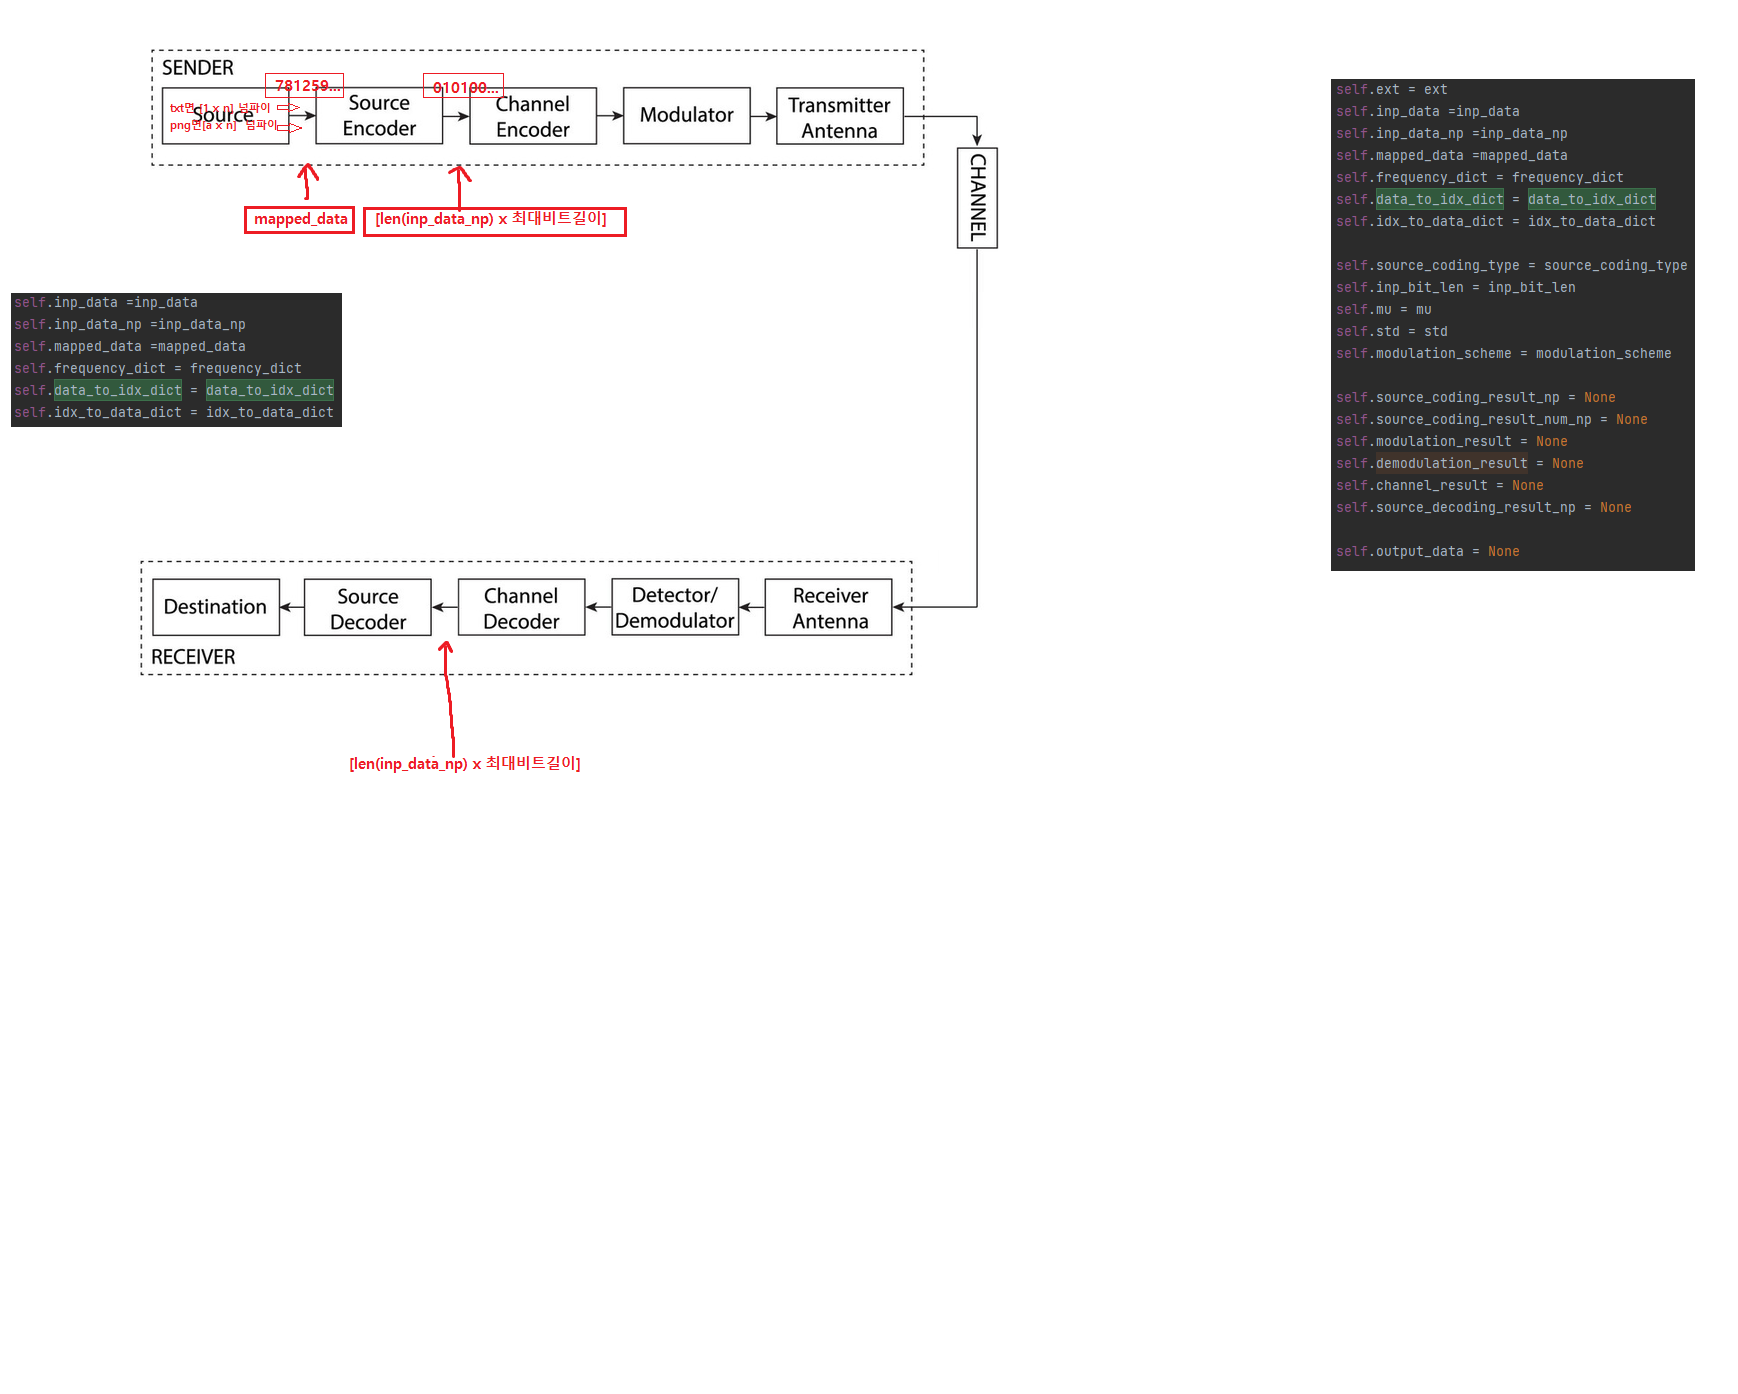
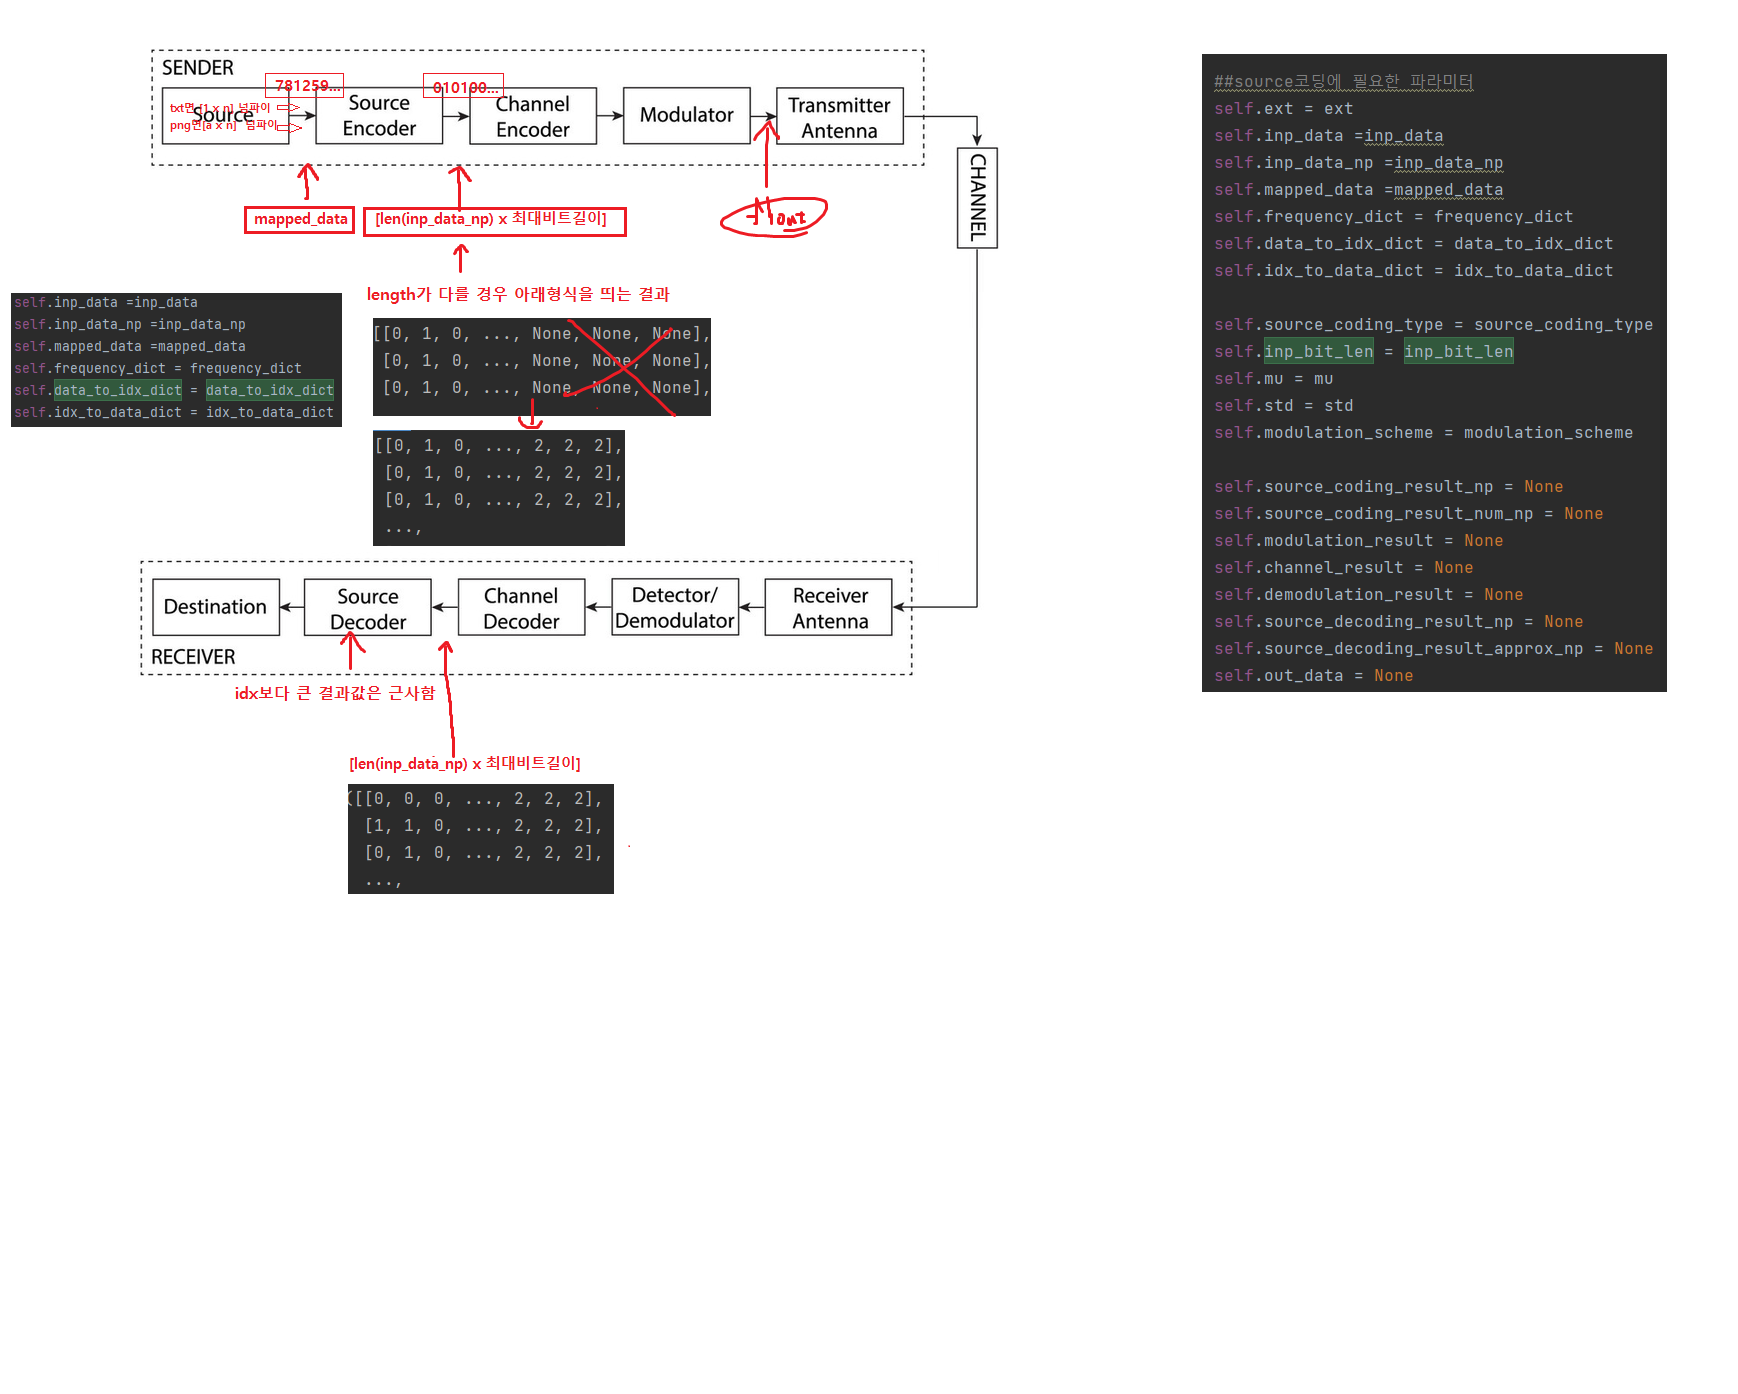
소ã
스코딩 허프만 수정중

diff --git a/communicationsystem.py b/communicationsystem.py
@@ -23,6 +23,8 @@ class communicationsystem:
         self.std = std
         self.modulation_scheme = modulation_scheme
 
+        self.data_to_code_dict = None
+        self.code_to_data_dict = None
         self.source_coding_result_np = None
         self.source_coding_result_num_np = None
         self.modulation_result = None
@@ -41,7 +43,7 @@ def source_encoder(inp_class):
     if inp_class.source_coding_type == "Huffman":
         h = huffman2.HuffmanCoding(columned_inp,inp_class.frequency_dict,inp_class.data_to_idx_dict)
         draw_graph = False
-        source_coding_result_np,source_coding_result_num_np = h.compress(draw_graph)
+        source_coding_result_np,source_coding_result_num_np = h.compress(inp_class,draw_graph)
 
     elif inp_class.source_coding_type == "NoCompression":
         print("%d length source coding"%inp_class.inp_bit_len)
@@ -63,17 +65,22 @@ def modulation(inp_class):
     데이터와 비트 길이, scheme을 입력에 따라 symbol을 반환
     '''
     if inp_class.modulation_scheme == "BPSK":
-        inp_class.modulation_result = np.where(inp_class.source_coding_result_np == 0, -1, 1)
+        inp_class.modulation_result = np.where(inp_class.source_coding_result_np == 2, np.nan, inp_class.source_coding_result_np)
+        inp_class.modulation_result = np.where(inp_class.modulation_result == 0, -1, inp_class.modulation_result)
+        #inp_class.modulation_result = np.where(inp_class.source_coding_result_np == 1, 1, inp_class.source_coding_result_np)
+        #inp_class.modulation_result = np.where(inp_class.source_coding_result_np == 1, 1, inp_class.modulation_result)
     else:
         raise Exception('모듈레이션 scheme 확인필요')
 def channel_awgn(inp_class):
-    '''
-    넘파이와 평균, 표준편차를 입력하면 awgn을 더해서 반환함
-    '''
     inp_class.channel_result = inp_class.modulation_result + np.random.normal(inp_class.mu, inp_class.std, inp_class.modulation_result.shape)
 def demodulation(inp_class):
     if inp_class.modulation_scheme == "BPSK":
-        inp_class.demodulation_result = (inp_class.channel_result>0).astype("uint8")
+        inp_class.demodulation_result = np.where(inp_class.channel_result < 0, 0,
+                                               inp_class.channel_result)
+        inp_class.demodulation_result = np.where(inp_class.demodulation_result  > 0, 1,
+                                               inp_class.demodulation_result)
+        inp_class.demodulation_result = np.where(np.isnan(inp_class.demodulation_result),2,inp_class.demodulation_result).astype('uint8')
+
     else:
         raise Exception('모듈레이션 scheme 확인필요')
 def channel_decoding(bit_stream):
@@ -84,7 +91,9 @@ def channel_decoding(bit_stream):
 def source_decoder(inp_class) :
 
     if inp_class.source_coding_type == "Huffman":
-        pass
+        inp_class.code_to_data_dict
+        inp_class.demodulation_result
+
     elif inp_class.source_coding_type == "NoCompression":
         ########### 소스디코딩에서 활용하자
         demodulation_result = np.copy(inp_class.demodulation_result)
@@ -111,9 +120,10 @@ def source_decoder(inp_class) :
 
         if inp_class.ext == ".txt":
             dec_res_inp_data_np = np.copy(inp_class.source_decoding_result_approx_np)  # inp_data_np
-            dec_res_inp_data = np.array([[inp_class.data_to_idx_dict[char] for char in dec_res_inp_data_np]], dtype=inp_class.inp_data.dtype).reshape(
-                inp_class.inp_data.shape)  # inp_data
 
+            u, inv = np.unique(dec_res_inp_data_np, return_inverse=True)
+            dec_res_inp_data = "".join(list(np.array([inp_class.idx_to_data_dict[idx] for idx in u])[inv])) # inp_data
+            inp_class.out_data = dec_res_inp_data
         elif inp_class.ext == ".png":
 
             u, inv = np.unique(inp_class.source_decoding_result_approx_np, return_inverse=True)

diff --git a/sourceencoder/huffman2.py b/sourceencoder/huffman2.py
@@ -191,14 +191,11 @@ class HuffmanCoding:
 		current_code = ""
 		self.make_codes_helper(root, current_code)
 
-	def get_encoded_np(self, columned_inp):
-		reference_dict = dict([a, list(map(int,list(x)))+[None]*(self.max_code_len-len(x))] for a, x in self.codes.items())
-
+	def get_encoded_np(self, columned_inp,inp_class):
+		inp_class.data_to_code_dict = dict([a, list(map(int,list(x)))+[2]*(self.max_code_len-len(x))] for a, x in self.codes.items())
 		u, inv = np.unique(columned_inp, return_inverse=True)
-		encoded_text_num = np.array([len(self.codes[x]) for x in u], dtype="uint8")[inv].reshape(columned_inp.shape)
-		encoded_text = np.array([reference_dict[x] for x in u])[inv]
-
-
+		encoded_text_num = np.array([len(self.codes[x]) for x in u])[inv].reshape(columned_inp.shape)
+		encoded_text = np.array([inp_class.data_to_code_dict[x] for x in u],dtype='uint8')[inv]
 		return encoded_text, encoded_text_num
 
 
@@ -223,7 +220,7 @@ class HuffmanCoding:
 		return b
 
 
-	def compress(self,draw_graph = False):
+	def compress(self,inp_class,draw_graph = False):
 		self.make_heap(self.frequency_dict)
 		self.merge_nodes()  # 여기서 huffman coding에서 볼 수 있는  tree를 생성함. True를 통해 허프만 결과 저장가능
 		self.make_codes()
@@ -231,7 +228,7 @@ class HuffmanCoding:
 		if draw_graph:
 			self.tree.drawTree()
 
-		encoded_np,encoded_num_np = self.get_encoded_np(self.columned_inp)
+		encoded_np,encoded_num_np = self.get_encoded_np(self.columned_inp,inp_class)
 
 		print("Compressed")
 		return encoded_np, encoded_num_np

diff --git a/main_simul.py b/main_simul.py
@@ -2,12 +2,12 @@
 import numpy as np
 import communicationsystem
 
-inp_file_dir = 'Lenna.png'
-#source_coding_type = "Huffman"
-source_coding_type = "NoCompression"
+inp_file_dir = 'sample.txt'
+source_coding_type = "Huffman"
+#source_coding_type = "NoCompression"
 modulation_scheme = "BPSK"
 mu = 0
-std = 0
+std = 1
 
 img_noise = communicationsystem.inp_with_noise(inp_file_dir,source_coding_type,modulation_scheme,
                                                mu, std)
